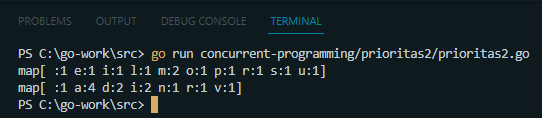
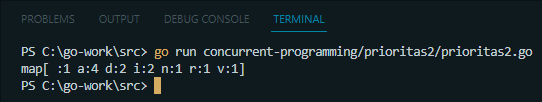
edit tugas 12

diff --git a/12_Concurrent Programming/praktikum/prioritas2/prioritas2.go b/12_Concurrent Programming/praktikum/prioritas2/prioritas2.go
@@ -2,28 +2,33 @@ package main
 
 import (
 	"fmt"
-	"time"
+	"sync"
 )
 
 func main() {
-	go KemunculanTiapHuruf("lorem ipsum")
-	go KemunculanTiapHuruf("nadira adiva")
+	var mutex sync.Mutex
+	ch := make(chan map[string]int)
 
-	time.Sleep(1 * time.Second)
-}
-
-func KemunculanTiapHuruf(kalimat string) {
 	mapping := make(map[string]int)
+	inputKalimat := "nadira adiva"
 
-	for _, value := range kalimat {
-		var value2, keySudahAda = mapping[string(value)]
+	go func(kalimat string) {
+		for _, value := range kalimat {
+			var value2, keySudahAda = mapping[string(value)]
 
-		if keySudahAda {
-			mapping[string(value)] = value2 + 1
-		} else {
-			mapping[string(value)] = value2 + 1
+			mutex.Lock()
+			if keySudahAda {
+				mapping[string(value)] = value2 + 1
+			} else {
+				mapping[string(value)] = value2 + 1
+			}
+			mutex.Unlock()
 		}
-	}
+		ch <- mapping
+		close(ch)
+	}(inputKalimat)
 
-	fmt.Println(mapping)
+	for value := range ch {
+		fmt.Println(value)
+	}
 }
